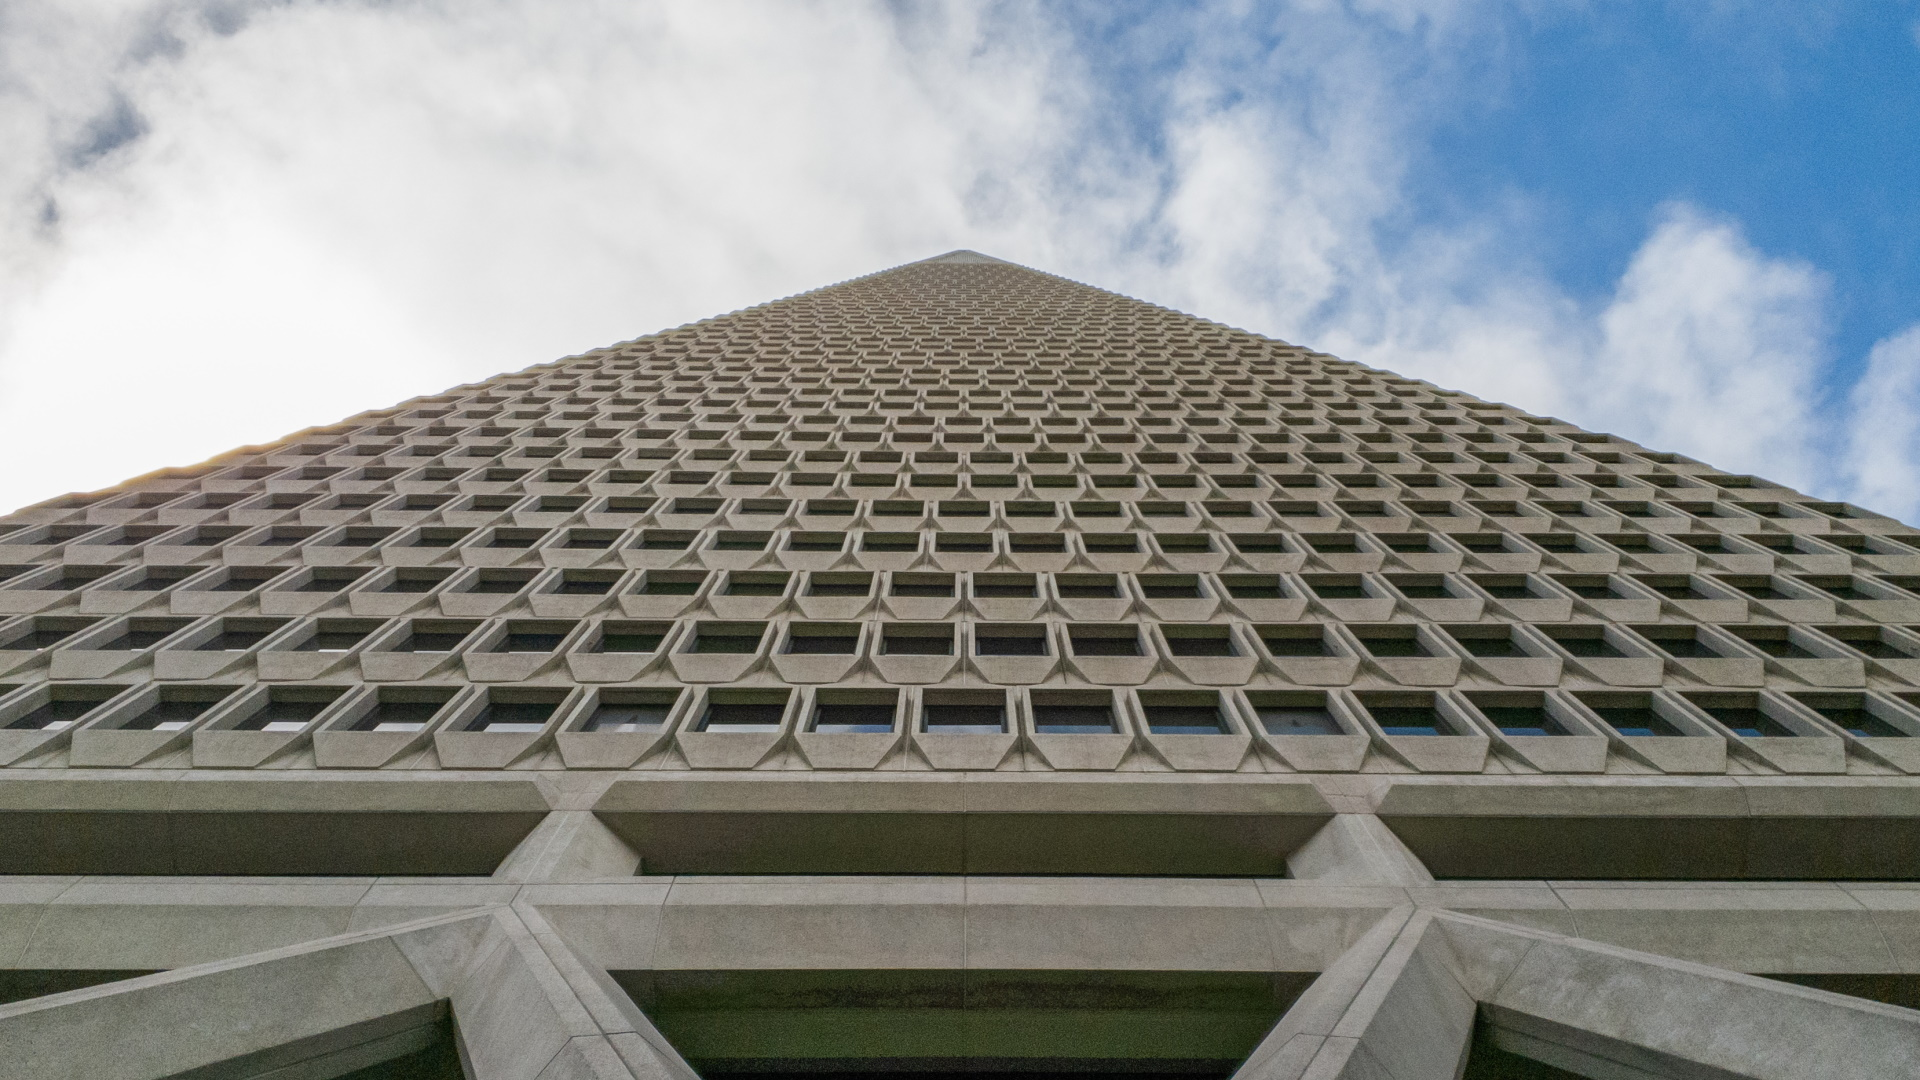
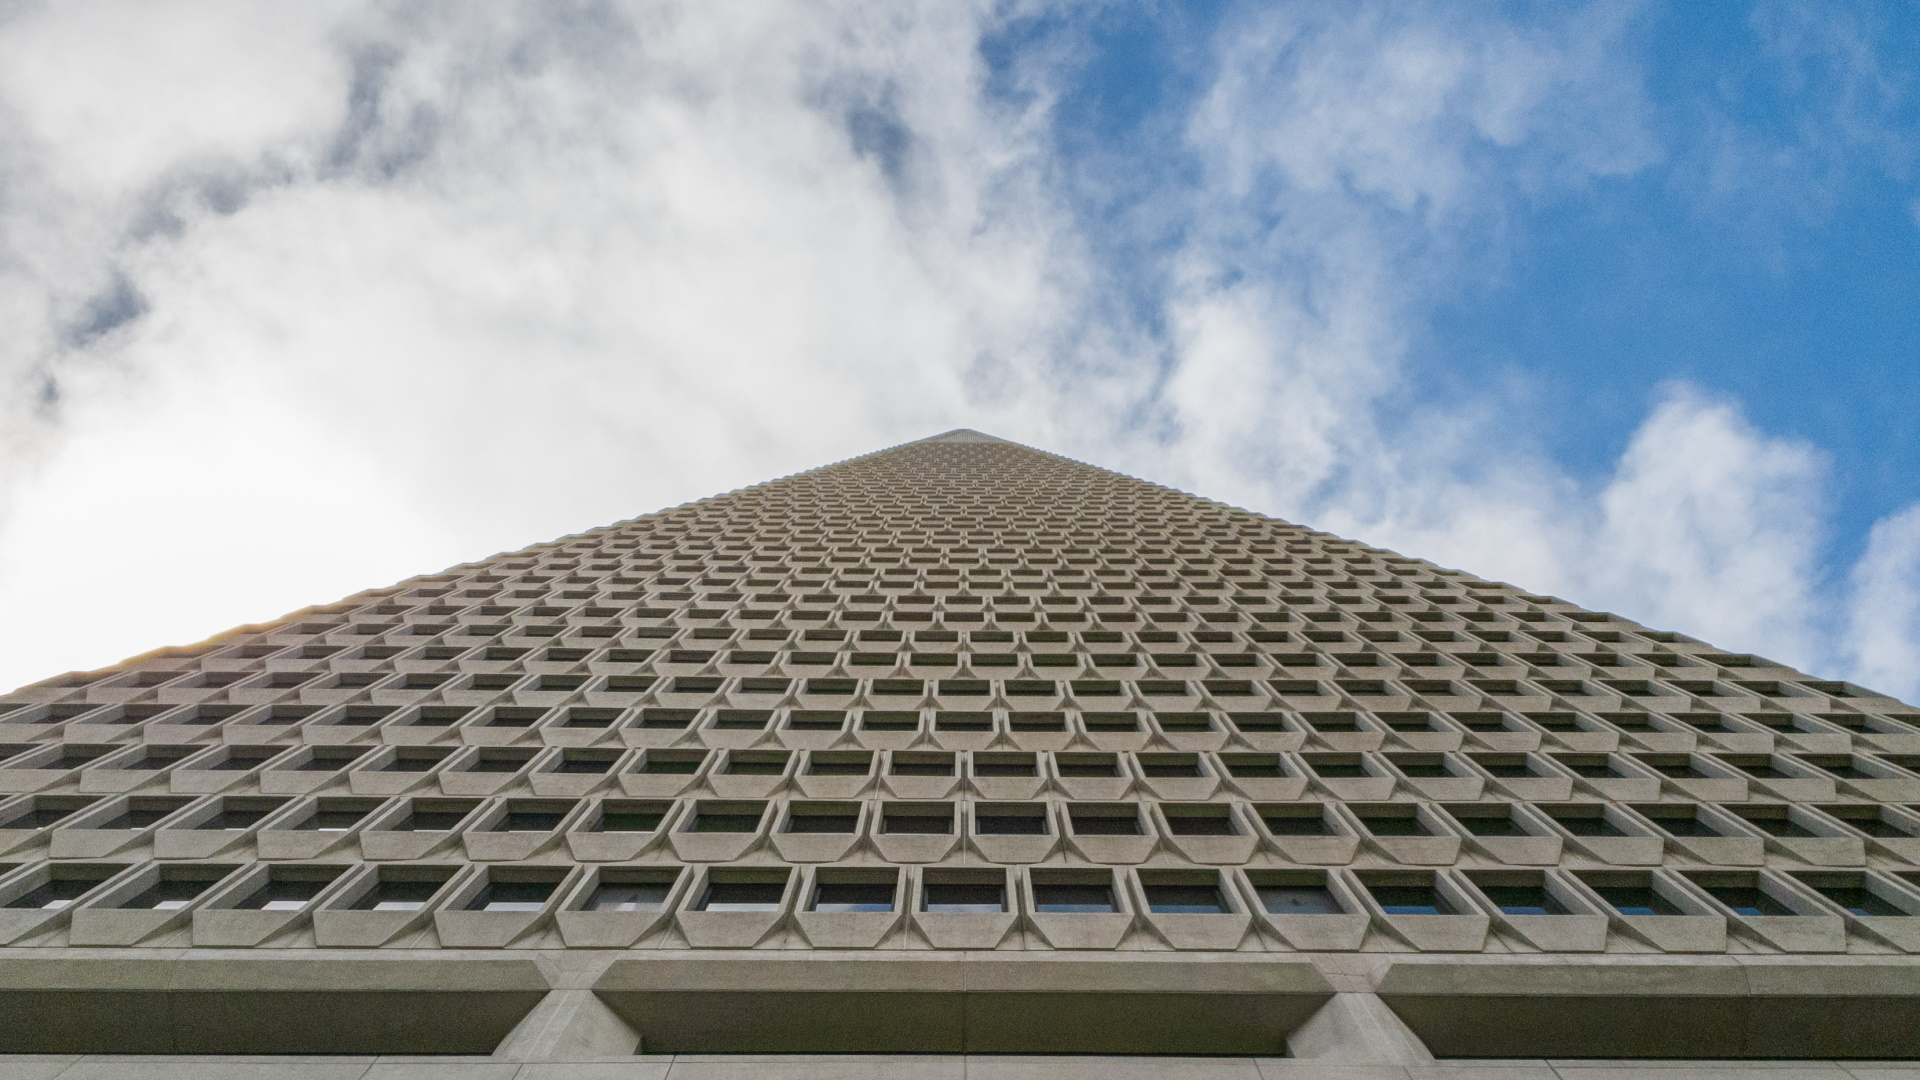
Image updates and landing page styling

diff --git a/static/css/common.css b/static/css/common.css
@@ -13,9 +13,10 @@ html {
   z-index: -1;
   width: 100%;
   height: 100%;
-  background: linear-gradient(0deg, rgba(0,70,193,1) 0%, rgba(0,153,255,1) 100%);
+  /*background: linear-gradient(0deg, rgba(0,70,193,1) 0%, rgba(0,153,255,1) 100%);*/
   /*background-image: url("https://live.staticflickr.com/4294/35092193734_db5ebd2f9e_b.jpg");*/
-  background-image: url("../img/mauiwater_1080.jpg");
+  background-color: #ccc;
+  background-image: url("../img/mauiwater_1080.jpg");/**/
   background-size: cover;
 }
 body {
@@ -26,6 +27,7 @@ body {
   font-family: Verdana, Geneva, sans-serif;
   font-family: 'Roboto', sans-serif;
   font-weight: 300;
+  overflow-x: hidden;
 }
 #pagebody {
   width: 100%;
@@ -34,6 +36,7 @@ body {
   margin-left: auto;
   margin-right: auto;
   background-color: #fff;
+  box-shadow: 0 0 1em 0 #000;
   /*background-color: rgba(255,255,255,0.9);*/
 }
 #copyright_footer {
@@ -46,24 +49,12 @@ body {
 }
 #top_pane {
   position: relative;
-  /*background-image: url("file:///C:/Users/mgrant/Desktop/Michael's%20Phone%20Backup%20(July%209,%202020)/SD%20Card/DCIM/Transfers/DSCF0426.JPG");*/
+  background-color: #ddd;
   background-image: url("../img/transamerica_1080_crop.jpg");
   background-size: cover;
-  background-position: 50% 50%;
+  background-position: 50% 70%;
   font-family: 'Roboto', sans-serif;
   font-weight: 100;
-  font-size: 1.3em;
-}
-#top_pane_bg {
-  height: 16em;
-}
-#profile_image {
-  display: none;
-  background-image: none;
-  width: 10em;
-  height: 10em;
-  background-color: red;
-  border-radius: 50%;
 }
 #navbar {
   display: block;
@@ -75,15 +66,27 @@ body {
   padding: 0;
   text-align: center;
   background-color: rgba(0,0,0,0.3);
+  font-size: 1.4em;
 }
 #navbar > li {
   display: inline-block;
   width: 20%;
-  height: 1.5em;
+  /*height: 1.5em;*/
   margin: 0;
-  min-width: 8em;
+  /*min-width: 8em;*/
   max-width: 11em;
+  box-sizing: border-box;
   text-align: center;
+}
+@media all and (max-width: 44rem) {
+  #navbar > li {
+    display: block;
+    max-width: 100%;
+    width: 100%;
+  }
+  #top_pane_bg {
+    height: 18em;
+  }
 }
 #navbar > li:hover {
   font-weight: 300;
@@ -96,6 +99,7 @@ body {
   height: 100%;
   vertical-align: middle;
   display: inline-block;
+  padding: 0.25em 0 0.25em 0;
 }
 #navbar > li > a > span {
   vertical-align: middle;
@@ -104,8 +108,8 @@ body {
   min-height: 30em;
   padding: 1em;
   position: relative;
+  background: linear-gradient(#ddd 0, #fff 10em);
 }
-
 
 .div-table {
   display: table;

diff --git a/index.html b/index.html
@@ -21,7 +21,7 @@
           <a href="./projects.html"><span>Hobbies</span></a></li><li>
           <a href="./about.html"><span>About</span></a></li>
         </ul>
-        <div id="top_pane_bg"></div>
+        <div style="height: 19em"></div>
       </div>
       <div id="page_content">
         <div id="headshot2"></div>
